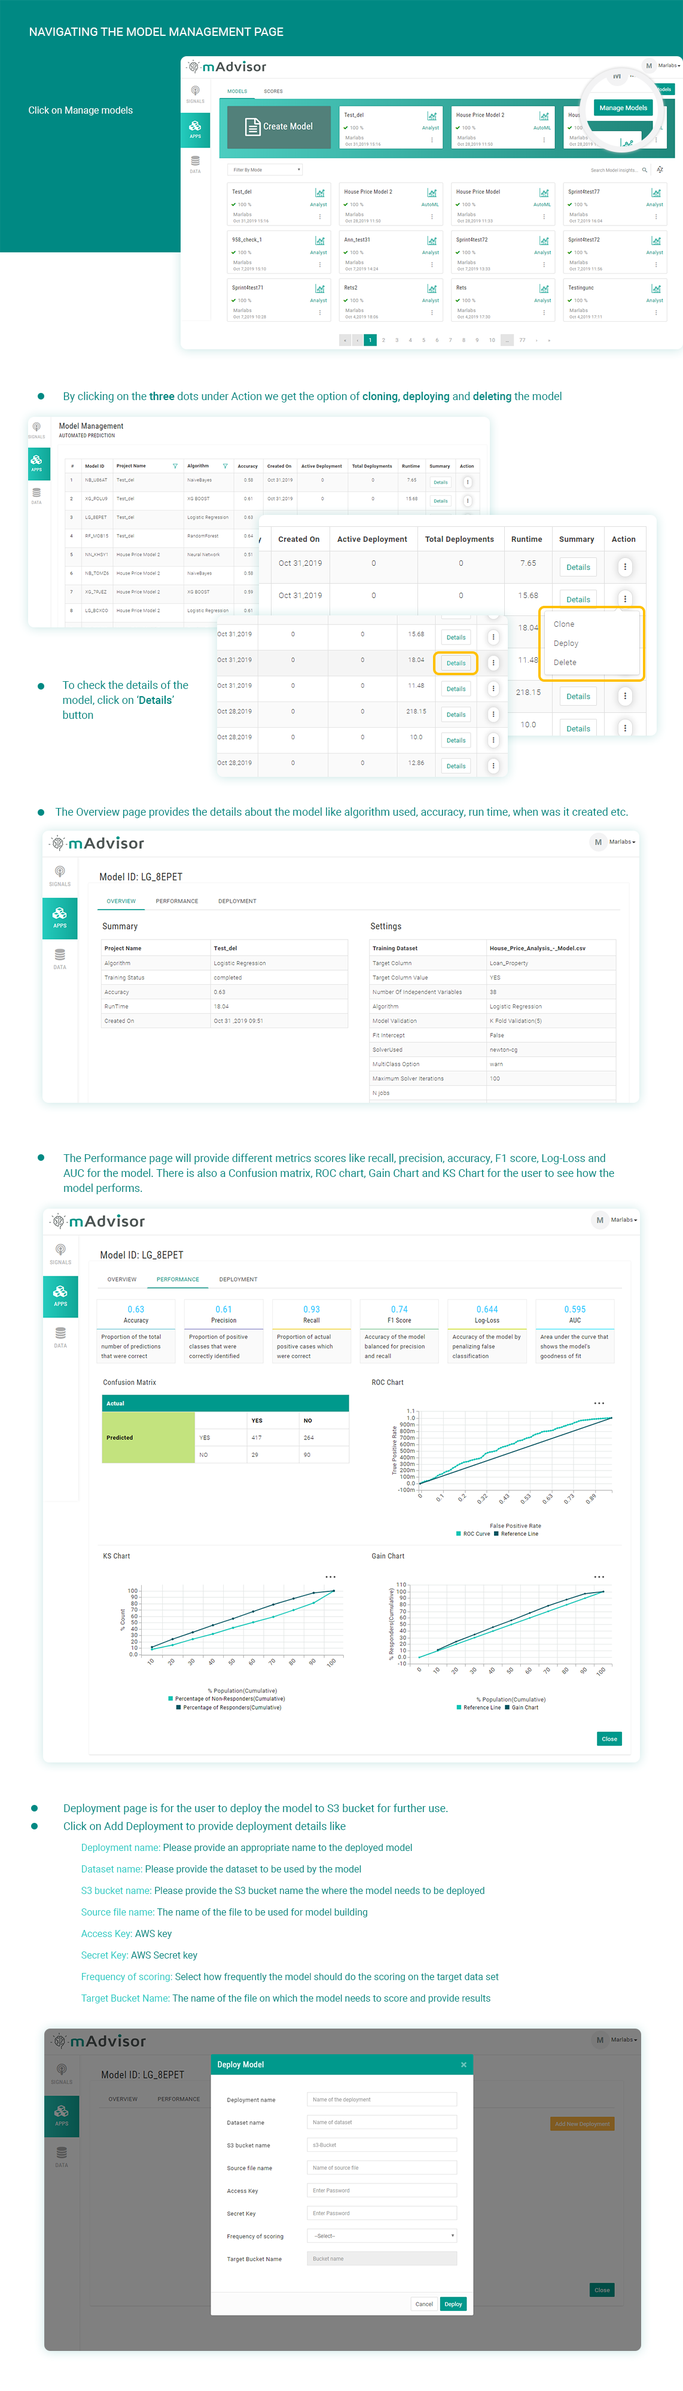
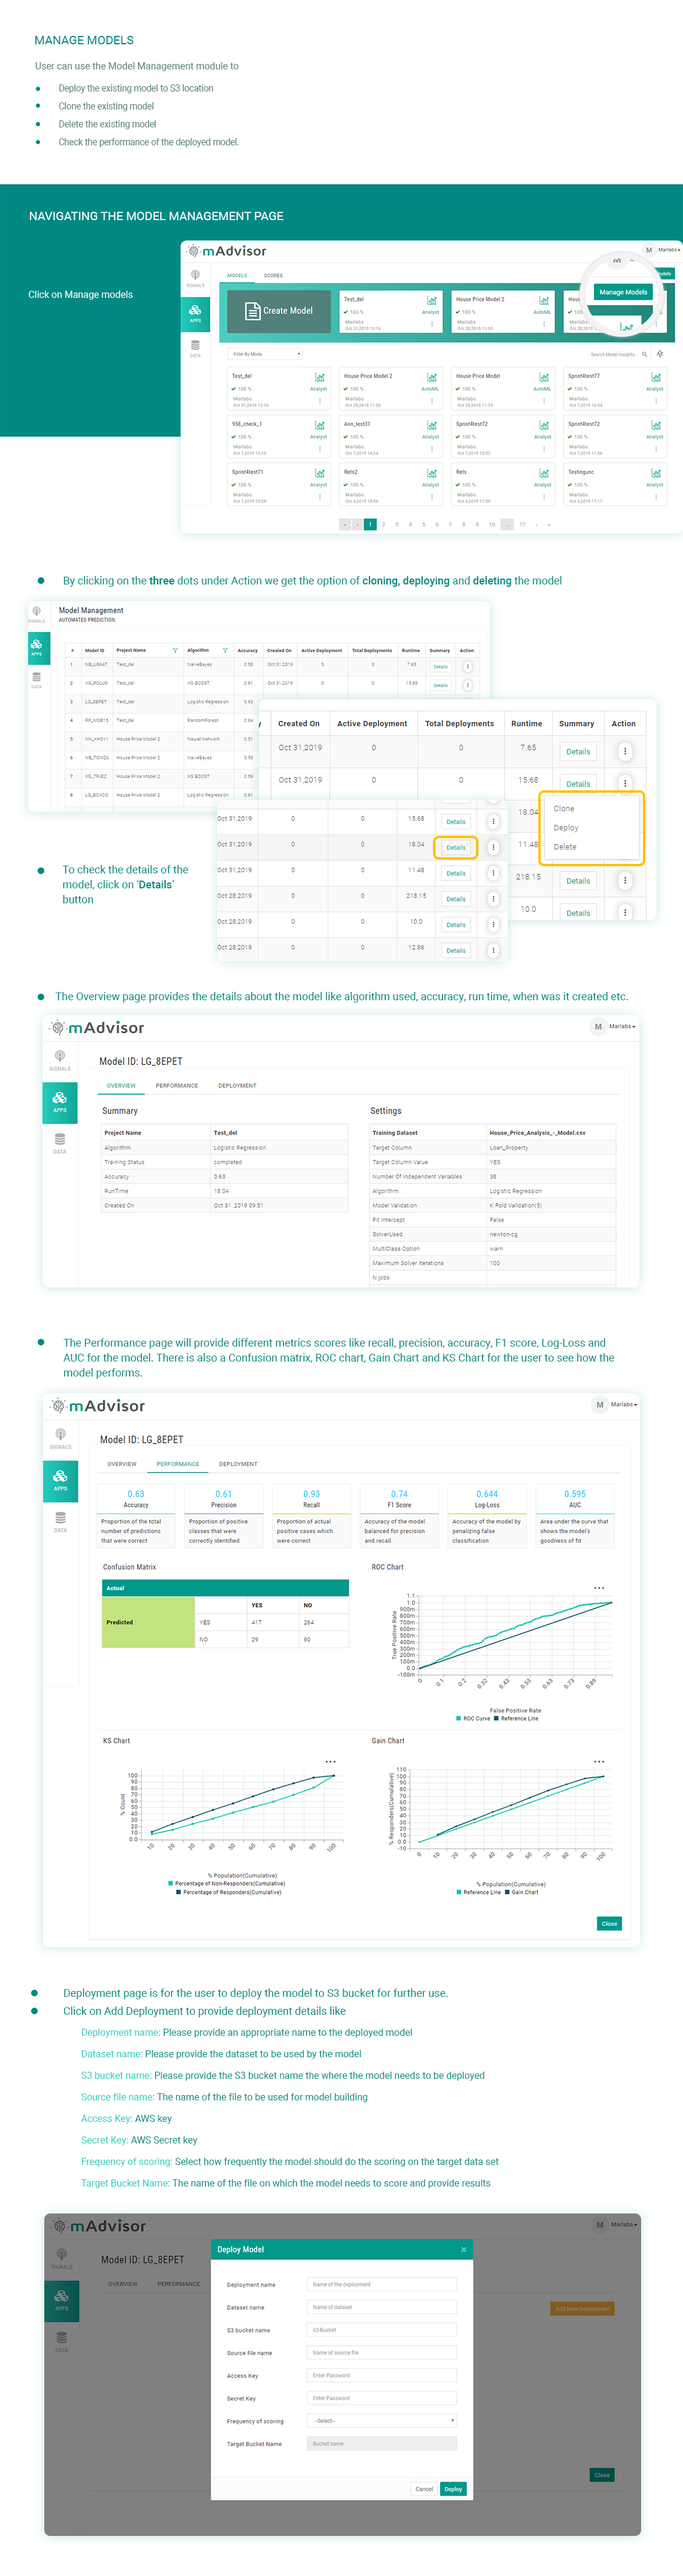
user manaual - updated as per the athira comments

diff --git a/static/react/src/userManual/apps.html b/static/react/src/userManual/apps.html
@@ -72,7 +72,7 @@
  
 	
     <section id="using_mAdvisor" class="section-bg animated fadeInUp wow animated">
-      <div class="container">
+      <div class="container bg-white">
 
         <header class="section-header">
           <h3 class="xs-mt-50">APPS</h3>
@@ -84,21 +84,7 @@
 			<img src="img/apps_flow.png" alt="Using mAdvisor Signals Page" class="img-fluid" />
 			</div>
 		</div>
-		<header class="section-header">
-          <h4 class="xs-mt-50">Manage Models</h3>
-		  
-        </header>
-		<div class="row wow bounceInLeft">
-			<div class="col-md-12 ">
-			<div class="clearfix"></div>
-			<ul><p class="xs-mb-10">User can use the Model Management module to </p>
-				<li>Deploy the existing model to S3 location</li>
-				<li>Clone the existing model</li>
-				<li>Delete the existing model</li>
-				<li>Check the performance of the deployed model.</li>
-			</ul>
-			</div>
-		</div>
+		 
 		<div class="row wow fadeInup">
 			<div>
 			<img src="img/manage_models.png" alt="Using mAdvisor Apps Page" class="img-fluid" />
